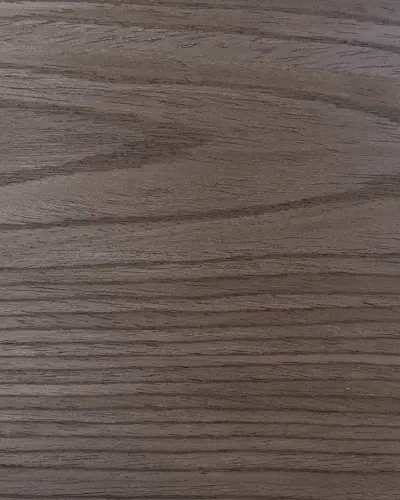
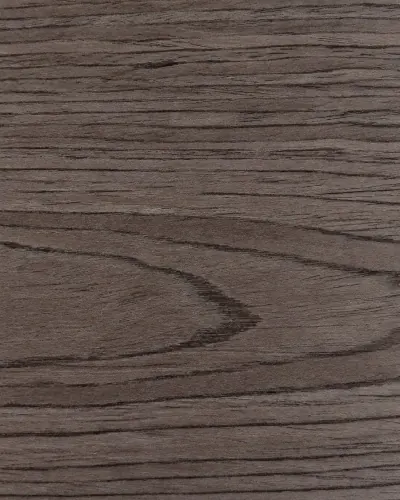
Replace the Haze Walnut swatch with a new photograph

diff --git a/src/data.js b/src/data.js
@@ -2833,7 +2833,7 @@ export const PRODUCTS = [
     species: 'American Black Walnut (Juglans nigra)',
     idSpecies: 'Walnut Hitam Amerika (Juglans nigra)',
     hiResImage: '/assets/hires/OSLO HAZE WALNUT.webp',
-    image: '/assets/image/OSLO HAZE WALNUT.webp?v=2',
+    image: '/assets/image/OSLO HAZE WALNUT.webp?v=3',
     bestFor: 'Transitional residential design, boutique hotel interiors, modern casework',
     idBestFor: 'desain residensial transisional, interior hotel butik, kabinet modern',
     finish: 'Matte oil',
